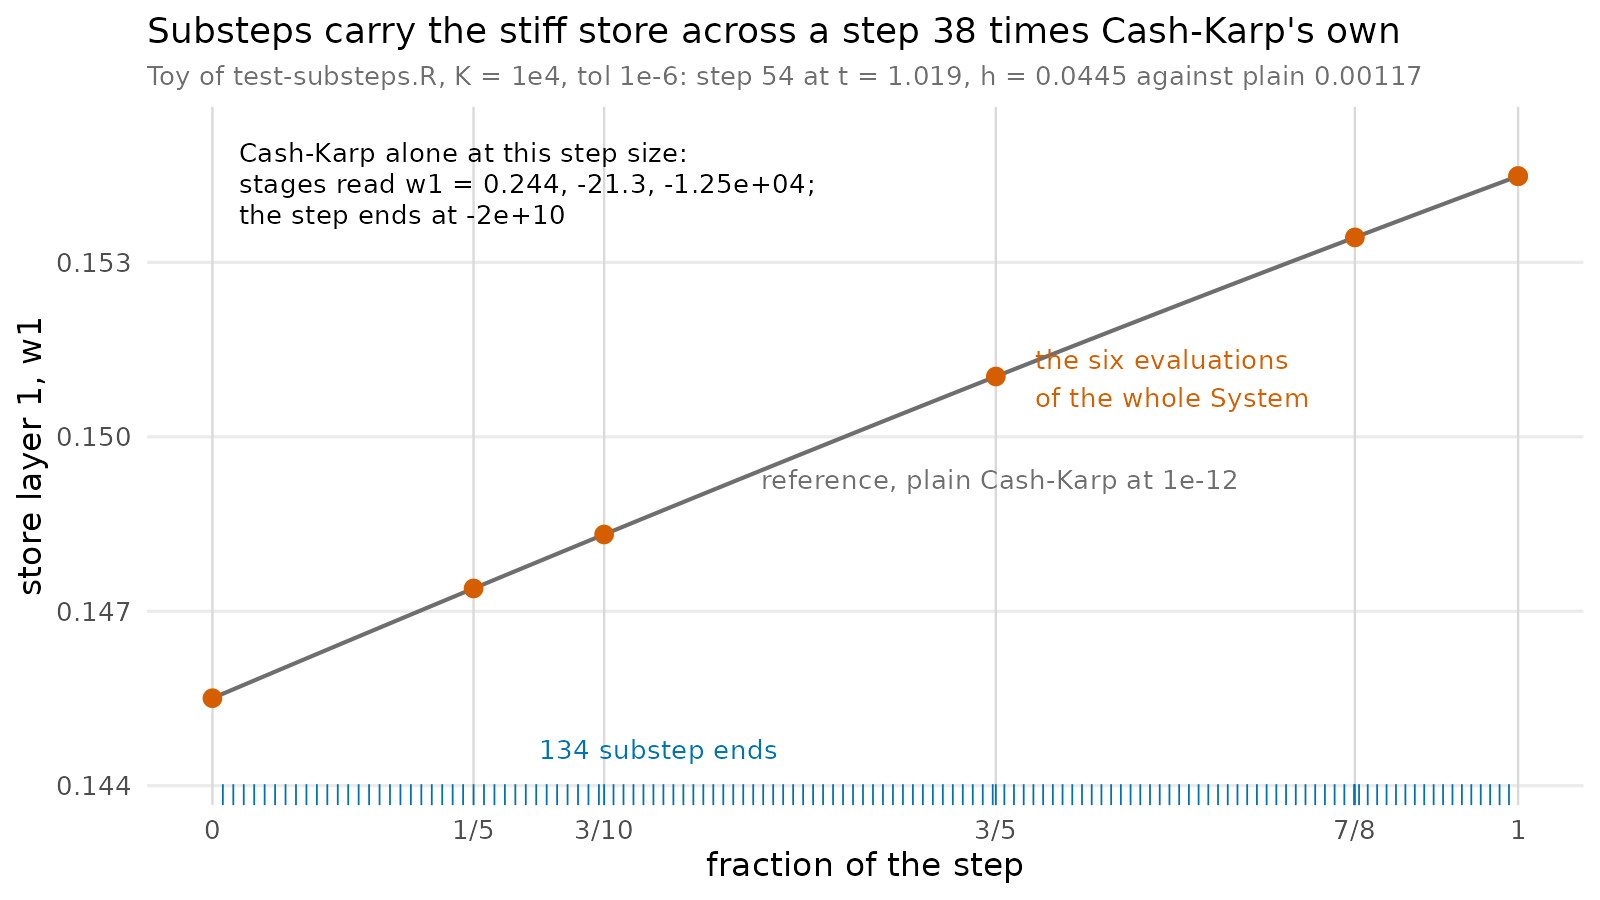
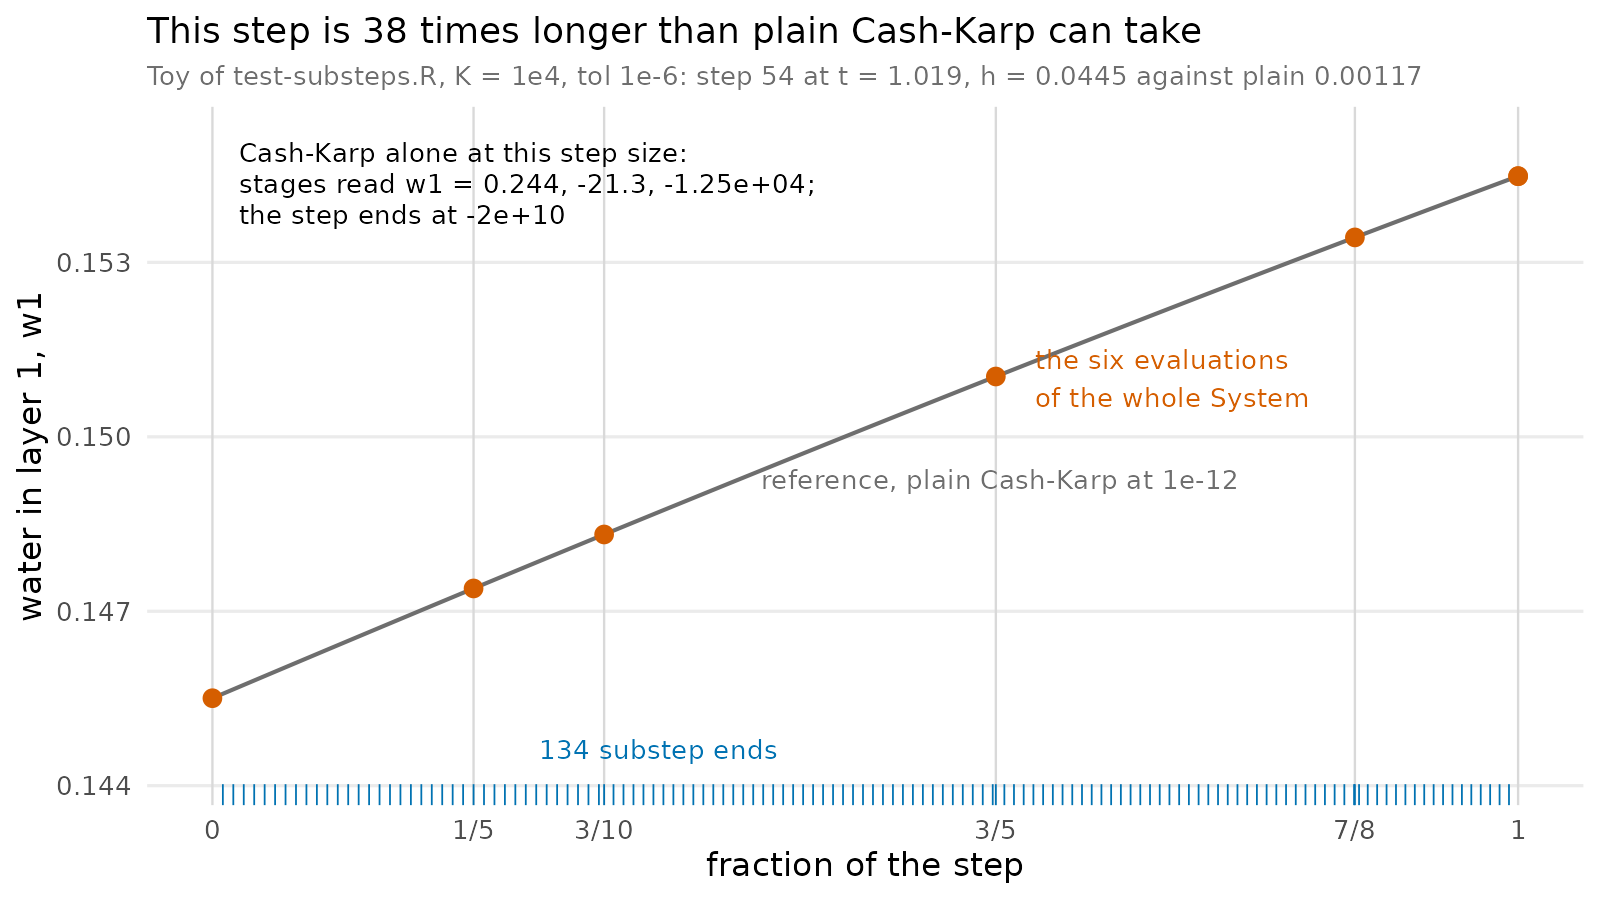
odelia#57 in longhand; figures relabelled in plain terms
Claude-Session: https://claude.ai/code/session_016CzJXviWCsP18qwJ8cuPwz

Changed region(s): [[0.0938, 0.0, 0.875, 0.0622], [0.0, 0.3111, 0.0312, 0.6844]]

diff --git a/docs/prs/v2/odelia-57/comment1.md b/docs/prs/v2/odelia-57/comment1.md
@@ -1,50 +1,71 @@
-# What it gives a System
+## What changes, on a small example
 
-A stiff store drained by a population, from `test-substeps.R`. Plain
-Cash–Karp must step at the store's pace; with the store named as a
-subsystem, the population takes steps 38 times longer and the store is
-carried across each one in substeps of its own:
+`tests/testthat/test-substeps.R` builds a System that shows the
+problem at small scale. A population grows slowly while drawing water
+from two soil layers, a seasonal source fills the top layer, and water
+drains from one layer to the next at a rate set by K. When K is large
+the layers are stiff: their water level responds within a tiny
+fraction of the time the population takes to change.
 
-![One step of the toy: the store's first layer across a step 38 times plain Cash–Karp's, the six evaluations of the whole System, and the 134 substeps that carry the store](FIG:odelia-57/one_step.png)
+At K = 10 000, integrating to t = 2 at a tolerance of 1e-6, plain
+Cash-Karp takes 1700 steps. Almost all of them are short because of
+the water layers, not the population. When the System names the two
+layers as its fast part, the same run takes 77 steps and ends closer
+to an accurate reference: 9.4e-9 from it, against 1.8e-6 for the
+plain run.
 
-To `t = 2` at tolerance 1e-6:
+The figure shows one of those 77 steps. It is 38 times longer than
+the steps plain Cash-Karp can take at that point. Taken as a plain
+step, it would drive the first layer's water to −2e10. With this
+change, the whole System is evaluated at the six usual points, and the
+water layers are integrated across the step in 134 short substeps, so
+they follow the accurate solution.
 
-```
-plain        1700 steps   error 1.8e-6
-substepped     77 steps   error 9.4e-9
-```
+![One step of the example, 38 times longer than plain Cash-Karp's, with the six evaluations of the whole System and the 134 substeps of the water layers](FIG:odelia-57/one_step.png)
 
-A System opts in by naming the range and saying how it reads the rest:
+Substeps only pay where the fast part is stiff. When the layers are
+not stiff, a plain step is cheaper, so the solver substeps only where
+the fast part is what keeps the step short. Up to K = 100 it takes the
+same steps as plain Cash-Karp. From K = 1000 up it takes 16 to 33
+steps, where plain Cash-Karp takes 600 to 4800. An earlier version of
+this branch substepped whenever the population drew little water from
+the layers, whether or not they were stiff, and the figure shows how
+much that cost at small K.
+
+![Accepted steps against the drainage rate K for plain Cash-Karp, the earlier version, and this change](FIG:odelia-57/steps_vs_stiffness.png)
+
+In plant, TF24 names its soil as its fast part (aornugent/plant#115).
+A 40-year stand on daily rainfall then no longer needs to stop at
+every day: it takes 0.41 times as many steps, and computing its
+gradient takes 0.35 times as long.
+
+## How a System takes part
+
+A System names its fast part with four member functions, and the
+concept `HasSubsystem` checks that it has them:
 
 ```cpp
-state_range subsystem() const;                    // which components
-void subsystem_inputs(std::vector<T>& u) const;   // one input per component
+state_range subsystem() const;
+void subsystem_inputs(std::vector<T>& u) const;
 void subsystem_rates(double t, const std::vector<T>& y,
                      const std::vector<T>& u, std::vector<T>& dydt) const;
 std::vector<double> subsystem_knots(double from, double to) const;
 ```
 
-```
-  SolverInternal::step
-    knot in (t, t+h), or the subsystem holds the step back?
-      no  → a Cash–Karp step, as before
-      yes → the subsystem in substeps, the rest on its six stages;
-            the row records the substeps
-  replays and solve_adjoint → the row's substeps, as recorded
-```
+`subsystem()` says which components of the state form the fast part.
+`subsystem_inputs()` gives the one input per component that the fast
+part reads from the rest of the state, and `subsystem_rates()` gives
+the fast part's rates for a given state and given inputs. The solver
+calls `subsystem_rates()` many times per step, so it should be cheap.
+`subsystem_knots(from, to)` lists the times between `from` and `to`
+where the fast part's forcing switches from one cubic to the next. A
+System without forcing returns none, and a driver in odelia lists its
+own with `drivers::Function::knots()`.
 
-| file | what |
-|---|---|
-| `ode_step_rkck.hpp` | the substepped step |
-| `ode_solver_internal.hpp` | when a step substeps; `step_by` takes the row |
-| `ode_interface.hpp` | `HasSubsystem`, `instruction::subsystem` |
-| `drivers.hpp` | `Function::knots` |
-| `tests/testthat/test-substeps.R` | the toy and its tests |
+The substepped step itself is `take_substepped_step` in
+`ode_step_rkck.hpp`, and the decision to substep is at the top of
+`SolverInternal::step` in `ode_solver_internal.hpp`.
 
-Read `take_substepped_step` first; it is the whole mechanism.
-
-This is odelia 0.8.1. #58 (0.8.2) is stacked on it, and
-aornugent/plant#115 names TF24's soil as the subsystem. One commit
-lets GCC 13 build `tests/standalone`: it crashed compiling a
-braced list of `instruction`s, which now hold a `std::optional`, from a
-`const double` local; the local is now `constexpr`.
+This is odelia 0.8.1, and #58 is stacked on it. One commit lets GCC 13
+build `tests/standalone`: it crashed compiling a list of instructions
+built from a `const double` local, and the local is now `constexpr`.

diff --git a/docs/prs/v2/odelia-57/comment2.md b/docs/prs/v2/odelia-57/comment2.md
@@ -1,40 +1,52 @@
-# How it works
+## How a substepped step works
 
-## Two passes over the same substeps
+The fast part needs its inputs at every moment of the step, but the
+rest of the System only computes them at its six evaluations. The
+step therefore assumes the inputs change along a straight line, and
+it integrates the fast part twice.
 
-A stage of the whole System needs the subsystem at the stage's time
-before that stage has produced the inputs the subsystem reads. So the
-step integrates the subsystem twice over one set of substeps. The
-first pass holds the inputs on a line extrapolated along their slope
-since the last step and hands each stage the subsystem at its time.
-The second holds them on the line from the start's inputs to those the
-stage at `t + h` produced, and gives the step's end. The two passes'
-difference is the subsystem's error estimate; it measures the coupling,
-which shrinks as h² where Cash–Karp's own error shrinks as h⁵.
+The first time, it extends the inputs along the trend they showed over
+the previous step, and integrates the fast part with those. This gives
+the fast part's value at each of the six evaluation times, so the rest
+of the System can be evaluated as in any Cash-Karp step. Those
+evaluations produce the inputs at the end of the step. The second
+time, the step integrates the fast part with inputs on the straight
+line from their value at the start to their value at the end, and
+that result is the step's answer for the fast part. The difference
+between the two results is its error estimate.
 
-## When a step substeps
+The straight-line assumption makes this error shrink with the square
+of the step length, where a plain Cash-Karp step's error shrinks with
+the fifth power. That is why plain steps are cheaper when the fast
+part is not stiff, and why the solver substeps only when it has to.
 
-At every knot of the forcing, since the stages cannot read between
-knots. Elsewhere, only where the subsystem is what limits the step:
-past Cash–Karp's stability limit on it (its stiffness, read from the
-step's own last two evaluations, times h above 3.73), or where its own
-error set the previous step and the coupling error would have been
-smaller. Where the subsystem is not stiff, the h² coupling error would
-make substepping cost more than plain steps, so the step stays plain.
-An earlier version of this branch substepped wherever the System
-reported the subsystem weakly coupled; the figure shows what that cost:
+## When a step uses substeps
 
-![Accepted steps against the store's stiffness for plain Cash–Karp, the earlier weak-coupling trigger and this one, at matched accuracy](FIG:odelia-57/steps_vs_stiffness.png)
+A step that crosses a knot of the forcing always uses substeps,
+because the six evaluations cannot see the forcing between knots, and
+one substep ends on each knot. Any other step uses substeps in two
+cases. In the first, the step is longer than plain Cash-Karp can take
+stably on the fast part: the solver estimates the fast part's
+stiffness from the last two evaluations of each step and compares it,
+times the step length, with 3.73, Cash-Karp's stability limit. In the
+second, the fast part's own Cash-Karp error was what limited the
+previous step, and the straight-line error would have been smaller.
+`OdeControl::substep_subsystem`, on by default, switches both off and
+leaves only the knots.
 
-## What a replay must carry
+## What a replay must repeat
 
-The input slope comes from the step before, and a replay of one step
-has no step before it. So the run records the slope and the substep
-ends on the step's row (`instruction::subsystem`), and every other pass
-(a replay of the program, of a recording, at another scalar, and the
-reverse sweep) takes both from the row. The sweep therefore
-differentiates the step the run took; `test-substeps.R` checks the
-sweep and a tangent replay against central differences. A grid of
-times alone carries no substeps, so `step_to` refuses a step that would
-substep, and `step_by` refuses a recorded row without substeps across a
-knot.
+The first integration uses the inputs' trend over the previous step,
+and a replay of a single step, or the reverse sweep that computes
+gradients, does not have the previous step. So each accepted step
+records its input trend and the end time of every substep, in its
+entry of the run's program (`instruction::subsystem`). A replay at
+other parameters and the reverse sweep read them back and repeat the
+calculation the run made, and the sweep therefore gives the gradient
+of that calculation. `test-substeps.R` checks the sweep and a tangent
+replay against central differences of the replay.
+
+A replay given only the times of the steps has no record of the
+substeps, so `step_to` refuses an interval where a step would use
+them, and `step_by` refuses a recorded step that crosses a knot but
+has no substeps recorded. Only `method = "rkck"` takes substeps.

diff --git a/docs/prs/v2/odelia-57/body.md b/docs/prs/v2/odelia-57/body.md
@@ -1,18 +1,20 @@
-An explicit step on a System with a stiff part is held to that part's
-stability limit, though the rest could take far longer steps. plant's
-TF24 soil is the case: its layers are stiff under heavy rain, the
-plants touch them only through each layer's uptake, and a daily
-rainfall record changes from one cubic to the next every day.
+An explicit Runge-Kutta step has to be short enough for the fastest
+part of the System it integrates, so one fast component forces every
+component to take short steps. In plant, the soil water in TF24 is
+that component: after heavy rain the top layer drains within hours,
+while the plants it supplies change over weeks. Daily rainfall is a
+cubic that changes every day, and a step longer than a day reads it
+at only six times, so plant also stops each run at every day.
 
-A System can now name a subsystem (`HasSubsystem`): a range of its
-state whose rates read the rest only through one input per component.
-Under `method = "rkck"`, a step that spans a knot of the subsystem's
-forcing integrates it in substeps of its own, landing on every stage
-time and every knot, while the rest takes the step's six stages. So
-does a step where the subsystem's stiffness, or its own error, holds
-the step back (`OdeControl::substep_subsystem`, on by default). A step
-records its substeps on its row, and replays and the reverse sweep
-take them as recorded. A System without a subsystem steps as before,
-bit for bit.
+A System can now name its fast part, provided that part depends on
+the rest of the state only through one input per component (for the
+soil, the plants' water uptake from each layer). When a Cash-Karp
+step crosses a day boundary in the forcing, or when the fast part
+would otherwise force the step to be short, the solver integrates the
+fast part in many short substeps inside the step, while the rest of
+the System is evaluated at the usual six points. Each step records
+where its substeps fell, so a replay and the reverse sweep repeat the
+same calculation. A System that does not name a fast part steps
+exactly as before.
 
 Closes #55
